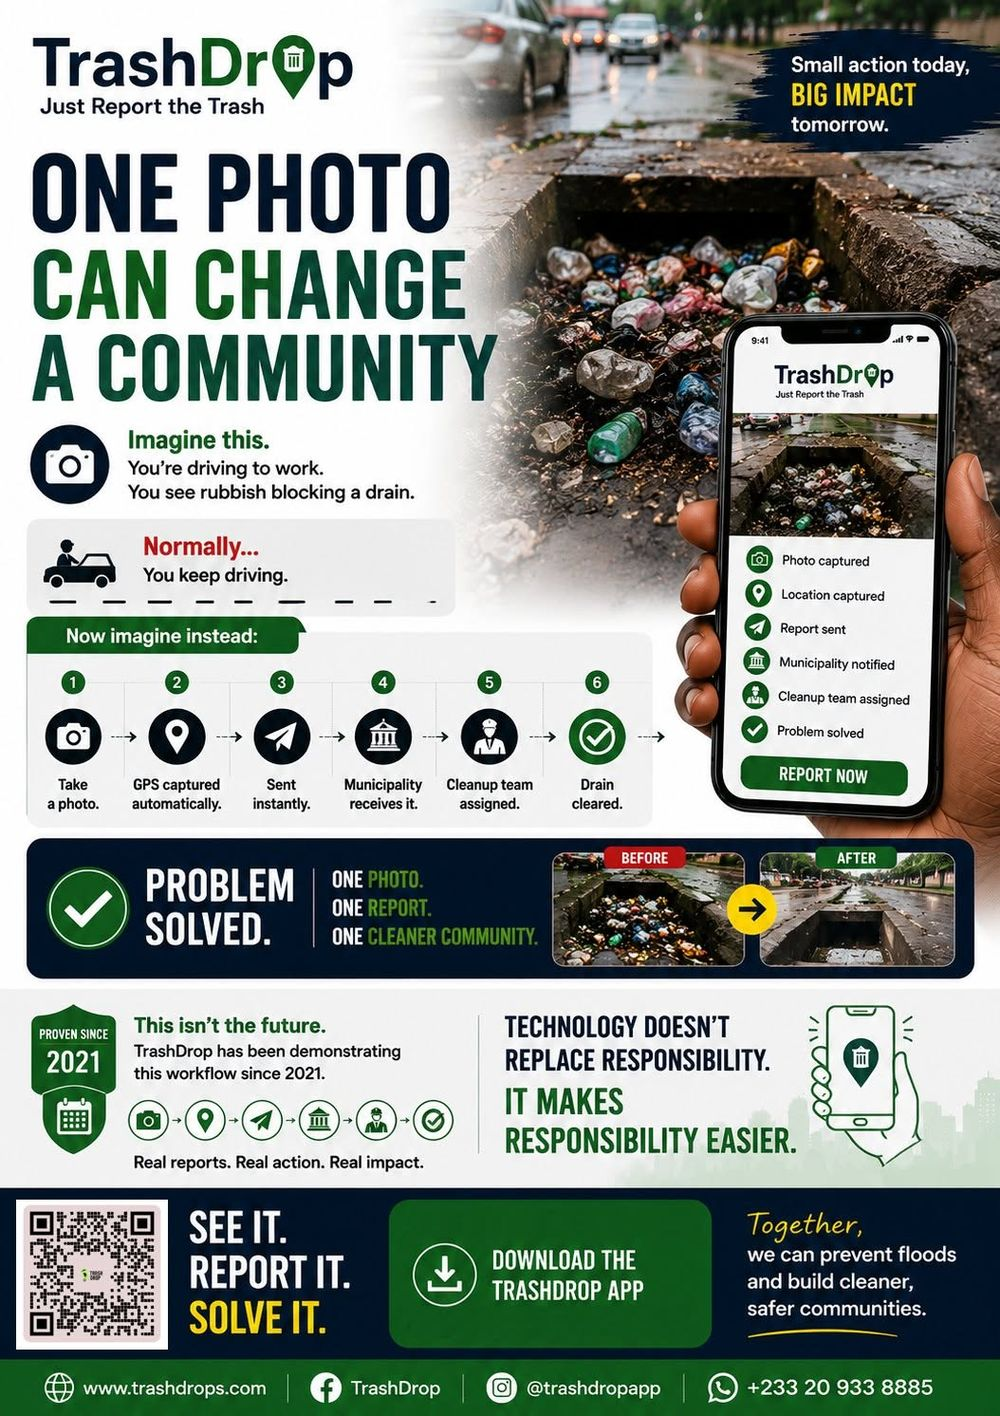
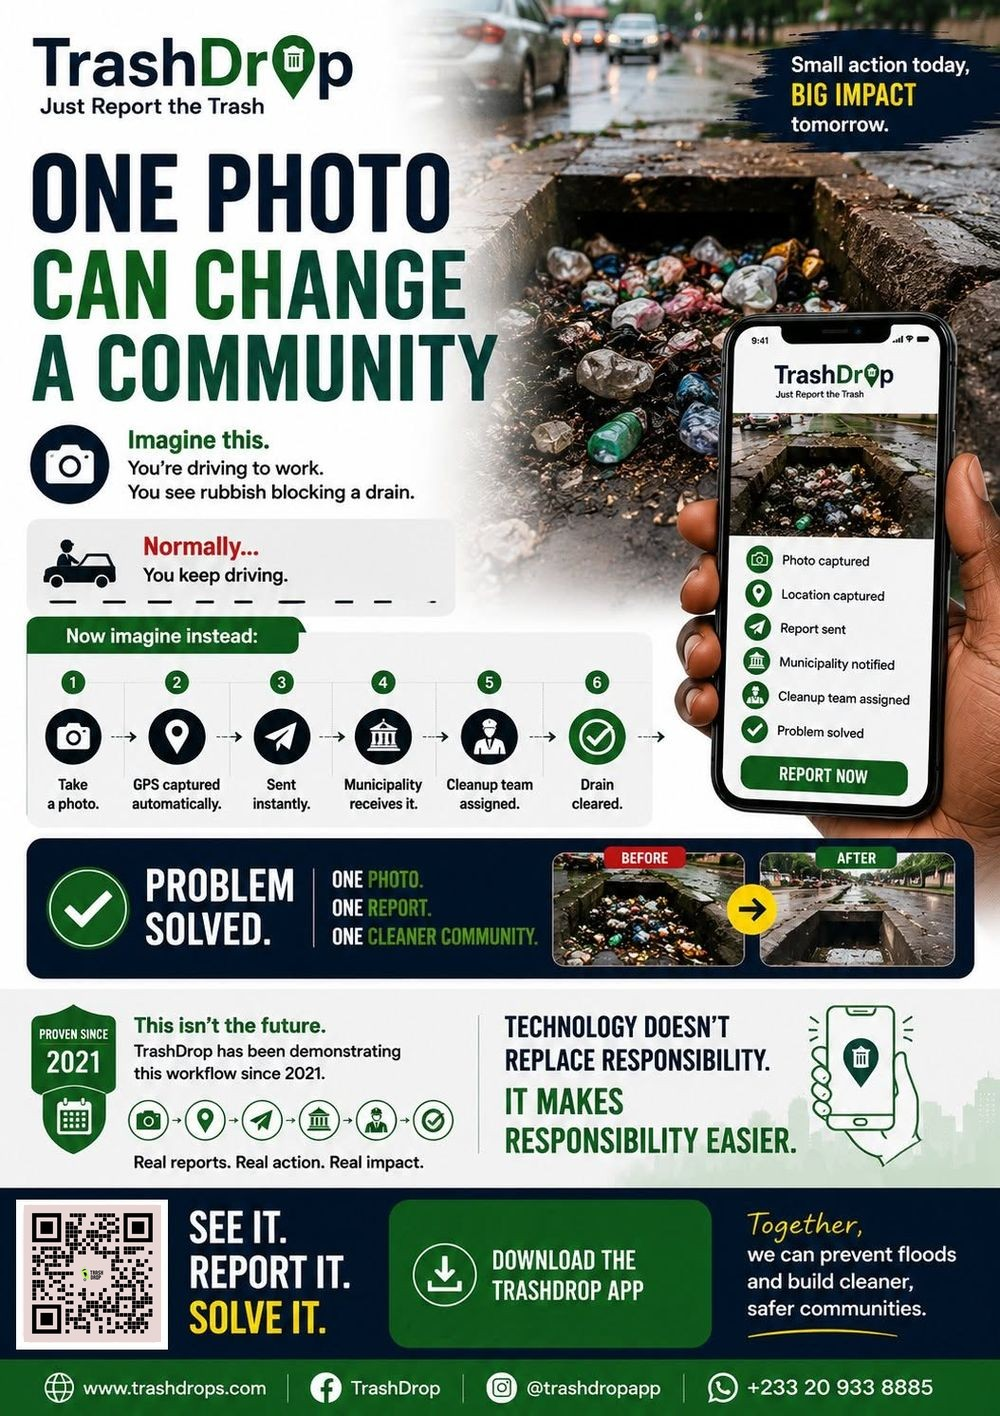
Point header Get Started and footer Sign Up Free at the app QR codes; refresh flyer QR codes
The two flyer images (blog and collectors poster) now carry a QR for app.trashdrops.com.

Claude-Session: https://claude.ai/code/session_01DucgrqNsCZE3wxfdsCRqT7

Changed region(s): [[0.031, 0.839, 0.155, 0.9633]]

diff --git a/src/components/PublicPageLayout.js b/src/components/PublicPageLayout.js
@@ -54,7 +54,7 @@ export const PublicNavbar = () => {
             ? <Link to="/dashboard" className="td-pub-btn" style={{ ...FF.label, fontSize:13, fontWeight:700, background:TD.lime, color:TD.ink, padding:'9px 22px', borderRadius:8, textDecoration:'none' }}>Dashboard →</Link>
             : <>
                 <Link to="/login"  className="td-pub-btn" style={{ ...FF.label, fontSize:13, fontWeight:600, color:linkColor, textDecoration:'none', padding:'9px 14px' }}>Sign In</Link>
-                <Link to="/signup" className="td-pub-btn" style={{ ...FF.label, fontSize:13, fontWeight:700, background:TD.lime, color:TD.ink, padding:'9px 22px', borderRadius:8, textDecoration:'none', boxShadow:`0 4px 20px ${TD.lime}40` }}>Get Started</Link>
+                <Link to="/#book-app" className="td-pub-btn" style={{ ...FF.label, fontSize:13, fontWeight:700, background:TD.lime, color:TD.ink, padding:'9px 22px', borderRadius:8, textDecoration:'none', boxShadow:`0 4px 20px ${TD.lime}40` }}>Get Started</Link>
               </>}
         </div>
         <button className="td-mobile-btn" onClick={() => setMobileOpen(o=>!o)} aria-label={mobileOpen ? 'Close menu' : 'Open menu'} aria-expanded={mobileOpen} style={{ background:'none', border:'none', cursor:'pointer', padding:8, color:'#fff' }}>
@@ -69,7 +69,7 @@ export const PublicNavbar = () => {
               ? <Link to="/dashboard" onClick={()=>setMobileOpen(false)} style={{ ...FF.label, fontWeight:700, background:TD.lime, color:TD.ink, textAlign:'center', padding:12, borderRadius:8, textDecoration:'none' }}>Go to Dashboard</Link>
               : <>
                   <Link to="/login"  onClick={()=>setMobileOpen(false)} style={{ ...FF.label, fontWeight:600, color:'#fff', textAlign:'center', padding:12, borderRadius:8, border:'1px solid rgba(255,255,255,0.15)', textDecoration:'none' }}>Sign In</Link>
-                  <Link to="/signup" onClick={()=>setMobileOpen(false)} style={{ ...FF.label, fontWeight:700, background:TD.lime, color:TD.ink, textAlign:'center', padding:12, borderRadius:8, textDecoration:'none' }}>Get Started Free</Link>
+                  <Link to="/#book-app" onClick={()=>setMobileOpen(false)} style={{ ...FF.label, fontWeight:700, background:TD.lime, color:TD.ink, textAlign:'center', padding:12, borderRadius:8, textDecoration:'none' }}>Get Started Free</Link>
                 </>}
           </div>
         </div>
@@ -104,7 +104,7 @@ export const PublicFooter = () => (
         </div>
         {[
           { title:'Platform', links:[['How It Works','/how-it-works/'],['For Households','/users/'],['QR Bag System','/how-it-works/#qr'],['Digital Bin Service','/how-it-works/'],['Pricing','/how-it-works/#pricing']] },
-          { title:'Collectors', links:[['Earn as Carter','/collectors/'],['Carter App','/collectors/'],['Authority Assignments','/collectors/'],['Earnings Calculator','/collectors/'],['Sign Up Free','/signup']] },
+          { title:'Collectors', links:[['Earn as Carter','/collectors/'],['Carter App','/collectors/'],['Authority Assignments','/collectors/'],['Earnings Calculator','/collectors/'],["Sign Up Free","/collectors/#download-app"]] },
           { title:'Waste Collection', links:[['Accra','/waste-collection-accra/'],['Kumasi','/waste-collection-kumasi/'],['Takoradi','/waste-collection-takoradi/'],['Tamale','/waste-collection-tamale/'],['On-demand waste pickup','/waste-pickup/']] },
           { title:'Resources', links:[['FAQ','/faq/'],['Blog','/blog/'],['About Us','/about/'],['Partners','/partners/'],['Report Illegal Dump','/illegal-dumping/'],['WhatsApp +233 20 933 8885','https://wa.me/233209338885'],['Contact','mailto:hello@trashdrops.com']] },
         ].map(col => (

diff --git a/src/pages/HomePageNew.js b/src/pages/HomePageNew.js
@@ -341,7 +341,7 @@ const HomeNavbar = ({ isAuthenticated }) => {
           {isAuthenticated
             ? <Link to="/dashboard" className="td-nav-btn" style={{ ...FF.label, fontSize:13, fontWeight:700, background:TD.lime, color:TD.ink, padding:'9px 22px', borderRadius:8, textDecoration:'none', boxShadow:`0 4px 20px ${TD.lime}40` }}>Dashboard →</Link>
             : <><Link to="/login"  className="td-nav-btn" style={{ ...FF.label, fontSize:13, fontWeight:600, color:navLinkColor, textDecoration:'none', padding:'9px 14px' }}>Sign In</Link>
-                <Link to="/signup" className="td-nav-btn" style={{ ...FF.label, fontSize:13, fontWeight:700, background:TD.lime, color:TD.ink, padding:'9px 22px', borderRadius:8, textDecoration:'none', boxShadow:`0 4px 20px ${TD.lime}40` }}>Get Started</Link></>}
+                <Link to="/#book-app" className="td-nav-btn" style={{ ...FF.label, fontSize:13, fontWeight:700, background:TD.lime, color:TD.ink, padding:'9px 22px', borderRadius:8, textDecoration:'none', boxShadow:`0 4px 20px ${TD.lime}40` }}>Get Started</Link></>}
         </div>
         <button className="td-mobile-btn" onClick={() => setMobileOpen(o=>!o)} aria-label={mobileOpen ? 'Close menu' : 'Open menu'} aria-expanded={mobileOpen} style={{ background:'none', border:'none', cursor:'pointer', padding:8, color:isDark || !scrolled ? '#fff' : TD.forest }}>
           <i className={`fas ${mobileOpen?'fa-times':'fa-bars'}`} style={{ fontSize:18 }}></i>
@@ -357,7 +357,7 @@ const HomeNavbar = ({ isAuthenticated }) => {
             {isAuthenticated
               ? <Link to="/dashboard" style={{ ...FF.label, fontWeight:700, background:TD.lime, color:TD.ink, textAlign:'center', padding:12, borderRadius:8, textDecoration:'none' }}>Go to Dashboard</Link>
               : <><Link to="/login"  style={mobileSignInStyle}>Sign In</Link>
-                  <Link to="/signup" style={{ ...FF.label, fontWeight:700, background:TD.lime, color:TD.ink, textAlign:'center', padding:12, borderRadius:8, textDecoration:'none' }}>Get Started Free</Link></>}
+                  <Link to="/#book-app" style={{ ...FF.label, fontWeight:700, background:TD.lime, color:TD.ink, textAlign:'center', padding:12, borderRadius:8, textDecoration:'none' }}>Get Started Free</Link></>}
           </div>
         </div>
       )}
